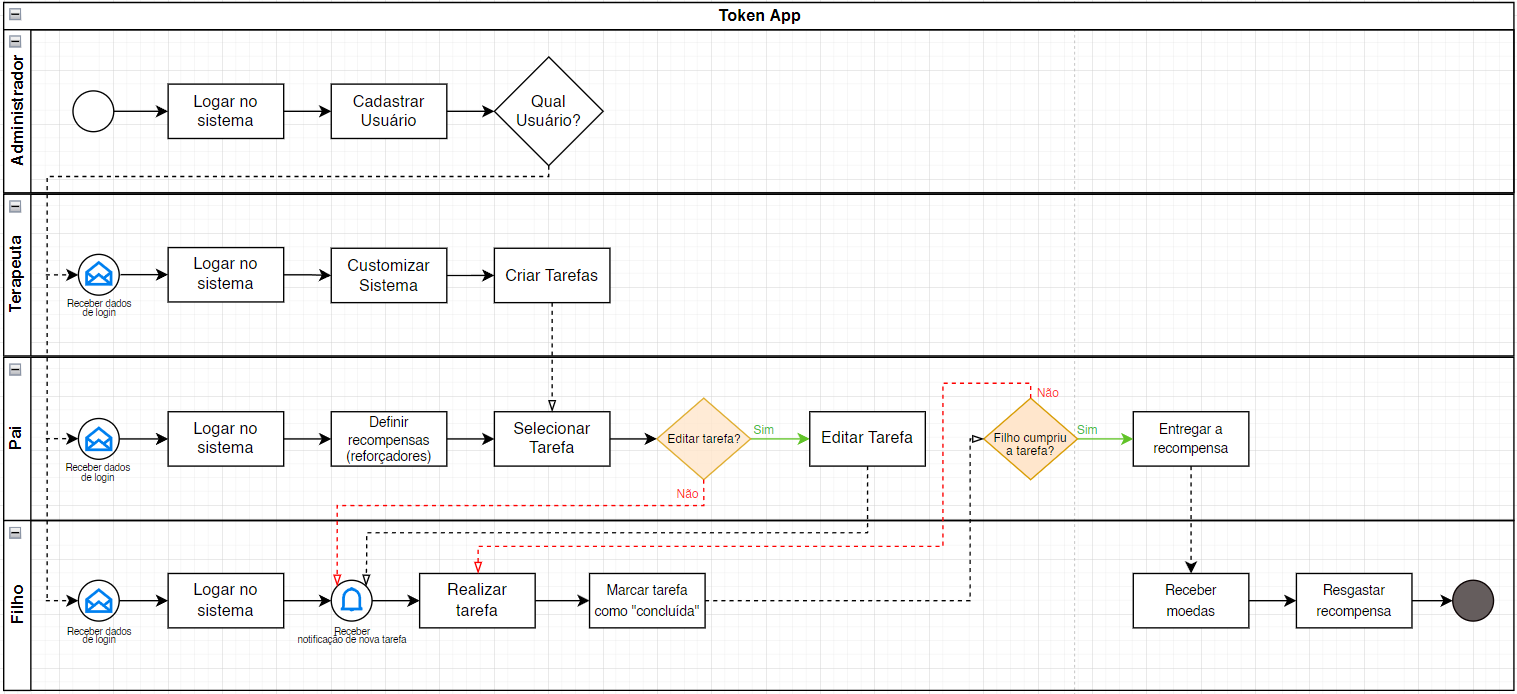
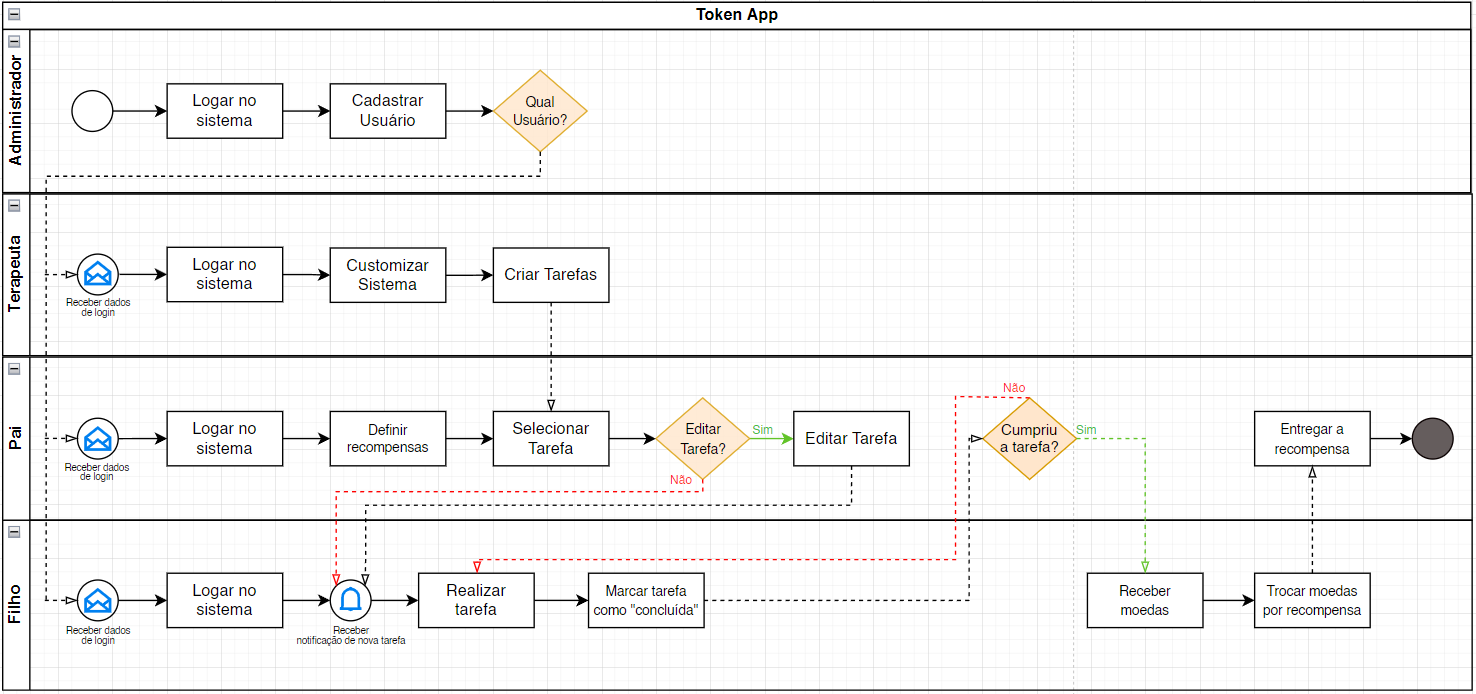
BPMN | v5 | Correcao do fluxo de edicao de tarefa

diff --git a/Anotacoes Obsidian/Estudos do Autismo (TG)/Livro - Estregias ABA para Pessoas com TEA/Introdução.md b/Anotacoes Obsidian/Estudos do Autismo (TG)/Livro - Estregias ABA para Pessoas com TEA/Introdução.md
@@ -1,6 +1,3 @@
-Estas são anotações do estudo científico recomendado pela psicóloga Gabriela Roland.
-
-# Introdução
 Conforme o Manual Diagnóstico e Estatístico de Transtornos Mentais (DSM-5), os distúrbios do TEA afetam áreas como:
 
 - Comunicação social (Linguagem imatura, contato visual pobre)
@@ -15,16 +12,5 @@ Dentre diversas abordagens divulgadas para a terapia de indivíduos com TEA, ==a
 - *"Na perspectiva analítico comportamental, os comportamentos, tidos tanto como adequados quanto inadequados, são desencadeados por eventos específicos e mantidos por suas consequências."* 
 	- Basicamente, todo o comportamento que é repetido só é repetido porque ele foi reforçado, e desta forma, estimulado para uma nova iteração.
 
-![[Pasted image 20240914172224.png]] 
+![[ColetaDeDadosIntervencao.png]] 
 Coleta de dados é um ponto importante da ABA, a TDIC pode entrar aqui.
-
-# Capítulo 1: Protocolos de Avaliação para Currículo Individualizado
-- A partir de uma análise inicial do comportamento do indivíduo, elabora-se um documento que especifica os objetivos da intervenção de forma individualizada. Este documento é chamado de **PEI - Plano de Ensino Individualizado**.
-
-- O comportamento de resposta do indivíduo para determinadas ações deve ser documentado pelo terapeuta, para que se possa identificar o processo e o motivo de seu sucesso, ou insucesso.
-
-- Quando é realizada uma avaliação do comportamento, diversos módulos do comportamento são analisados: 
-![[Pasted image 20240914174335.png]]
-
-
-# Capítulo 2: Avaliação de Reforçadores

diff --git a/Anotacoes Obsidian/Estudos do Autismo (TG)/Livro - Estregias ABA para Pessoas com TEA/Capítulo 1 - Elaborando Curriculo Individualizado.md b/Anotacoes Obsidian/Estudos do Autismo (TG)/Livro - Estregias ABA para Pessoas com TEA/Capítulo 1 - Elaborando Curriculo Individualizado.md
@@ -1,0 +1,10 @@
+---
+tags: 
+aliases:
+---
+- A partir de uma análise inicial do comportamento do indivíduo, elabora-se um documento que especifica os objetivos da intervenção de forma individualizada. Este documento é chamado de **PEI - Plano de Ensino Individualizado**.
+
+- O comportamento de resposta do indivíduo para determinadas ações deve ser documentado pelo terapeuta, para que se possa identificar o processo e o motivo de seu sucesso, ou insucesso.
+
+- Quando é realizada uma avaliação do comportamento, diversos módulos do comportamento são analisados: 
+![[ModulosDoComportamento.png]]

diff --git a/Anotacoes Obsidian/Estudos do Autismo (TG)/Livro - Estregias ABA para Pessoas com TEA/Estratégias ABA Para Pessoas Com TEA.md b/Anotacoes Obsidian/Estudos do Autismo (TG)/Livro - Estregias ABA para Pessoas com TEA/Estratégias ABA Para Pessoas Com TEA.md
@@ -1,0 +1,5 @@
+- Nesta pasta estão as anotações relacionadas ao livro "Estratégias ABA Para Pessoas Com TEA", das autoras Cíntia Perez Duarte, Luciana Coltri e Silva e Renata de Lima Velloso. 
+- Agradecimento especial para a psicóloga Gabriela Roland, que nos indicou o livro.
+
+Introdução - [[Introdução]]
+Capítulo 1 - [[Capítulo 1 - Elaborando Curriculo Individualizado]]
